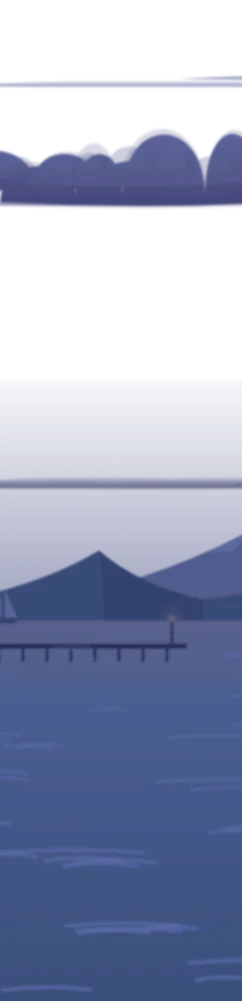
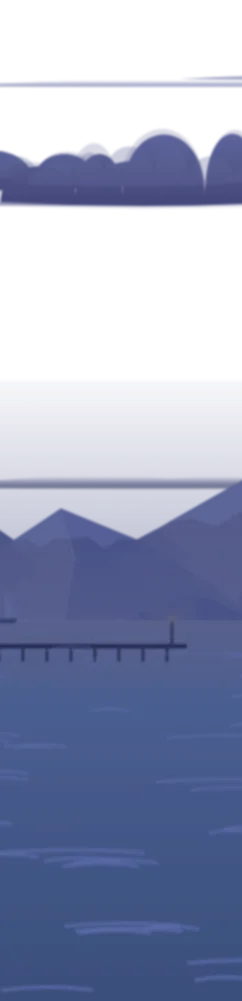
Richer dusk beach distance
Claude-Session: https://claude.ai/code/session_01EHtmNVvLo6L45VFzzqfGpi

Changed region(s): [[0.0, 0.4645, 1.0, 0.6194], [0.9545, 0.5884, 1.0, 0.6194]]

diff --git a/assets/js/nature.js b/assets/js/nature.js
@@ -1513,6 +1513,120 @@ function sailboat(x, y, h, c = '#7a7488') {
   return `<path d="M${n1(x - h * .5)} ${n1(y)}L${n1(x + h * .5)} ${n1(y)}L${n1(x + h * .4)} ${n1(y + h * .18)}L${n1(x - h * .4)} ${n1(y + h * .18)}Z" fill="${c}"/><path d="M${n1(x + h * .05)} ${n1(y - .1)}L${n1(x + h * .05)} ${n1(y - h)}L${n1(x + h * .45)} ${n1(y - .1)}Z" fill="#f3e6d6" opacity=".9"/><path d="M${n1(x - h * .05)} ${n1(y - .1)}L${n1(x - h * .05)} ${n1(y - h * .85)}L${n1(x - h * .38)} ${n1(y - .1)}Z" fill="#e6d2bd" opacity=".9"/>`;
 }
 
+// ---------- 夕凪の浜の遠景（作品の山の描き方：光の面と影の面を平らな色で塗り分け、麓は木々の粒で埋める） ----------
+// 1 つの峰：稜線で左右の面に分け、太陽の側の面を明るく。面の中に小さな面を重ねて岩の起伏を出す。上に雪、麓に木の粒
+function facetPeak(x, base, w, h, g, sunX, c) {
+  const a = .38 + g() * .24, L = [x - w * a, base], Rr = [x + w * (1 - a), base], P = [x + w * (g() - .5) * .08, base - h];
+  const kink = (A, B, t, o) => [A[0] + (B[0] - A[0]) * t + o, A[1] + (B[1] - A[1]) * t - h * (.02 + g() * .06)];
+  const l1 = kink(P, L, .34 + g() * .1, -w * .02), l2 = kink(P, L, .68 + g() * .1, -w * .03), r1 = kink(P, Rr, .3 + g() * .1, w * .02), r2 = kink(P, Rr, .66 + g() * .1, w * .03);
+  const S = [x + w * (g() * .3 - .08), base], M = [P[0] + (S[0] - P[0]) * .45 + w * .04, P[1] + (S[1] - P[1]) * .45];
+  const litLeft = sunX < x, [cl, cr] = litLeft ? [c.lit, c.shade] : [c.shade, c.lit];
+  const pt = (q) => `${n1(q[0])} ${n1(q[1])}`, poly = (pts, f, o = 1) => `<path d="M${pts.map(pt).join('L')}Z" fill="${f}"${o < 1 ? ` opacity="${o}"` : ''}/>`;
+  track(L[0], P[1]); track(Rr[0], base);
+  let s = poly([P, l1, l2, L, S, M], cl) + poly([P, M, S, Rr, r2, r1], cr);
+  // 面の中の小さな面（明るい面には少し暗い面、暗い面には少し明るい面）
+  s += poly([l1, [l1[0] + w * .1, l1[1] + h * .18], [l2[0] + w * .14, l2[1] + h * .1], l2], mixC(cl, cr, .28));
+  s += poly([r1, [r1[0] - w * .08, r1[1] + h * .2], [r2[0] - w * .12, r2[1] + h * .12], r2], mixC(cr, cl, .22));
+  s += poly([M, [M[0] + w * .06, M[1] + h * .2], S], mixC(cr, cl, .12));
+  if (c.snowLit && h > c.snowMin) {
+    // 雪：頂から肩までを覆い、下の縁はぎざぎざ。稜線で光と影に分ける
+    const t = .3 + g() * .12, sl = [P[0] + (l1[0] - P[0]) * (t / .34) * .9, P[1] + (l1[1] - P[1]) * (t / .34) * .9], sr = [P[0] + (r1[0] - P[0]) * (t / .3) * .9, P[1] + (r1[1] - P[1]) * (t / .3) * .9];
+    const sm = [P[0] + (M[0] - P[0]) * .62, P[1] + (M[1] - P[1]) * .62];
+    const jag = (A, B, n) => Array.from({ length: n }, (_, i) => { const u = (i + 1) / (n + 1); return [A[0] + (B[0] - A[0]) * u, A[1] + (B[1] - A[1]) * u + (i % 2 ? h * (.04 + g() * .05) : -h * g() * .03)]; });
+    const [sL, sR] = litLeft ? [c.snowLit, c.snowShade] : [c.snowShade, c.snowLit];
+    s += poly([P, sl, ...jag(sl, sm, 3), sm], sL) + poly([P, sm, ...jag(sm, sr, 3), sr], sR);
+  }
+  // 麓の木々：面の色より少し暗い／明るい小さな粒（遠くなので輪郭は描かない）
+  if (c.trees) {
+    const n = Math.round(w * h * .06);
+    for (let i = 0; i < n; i++) {
+      const u = g(), yy = base - h * (.02 + Math.pow(g(), 1.6) * .34), half = (base - yy) / h, xl = x - w * a * (1 - half * .9), xr = x + w * (1 - a) * (1 - half * .9), xx = xl + (xr - xl) * u, r = w * (.012 + g() * .014);
+      s += `<ellipse cx="${n1(xx)}" cy="${n1(yy)}" rx="${n2(r)}" ry="${n2(r * 1.25)}" fill="${c.trees[Math.floor(g() * c.trees.length)]}" opacity="${n2(.2 + g() * .25)}"/>`;
+    }
+  }
+  return s;
+}
+function facetRange(x0, x1, base, hMin, hMax, wMin, wMax, g, sunX, c) {
+  const peaks = [];
+  for (let x = x0 + g() * wMin * .5; x < x1; x += wMin * (.4 + g() * .55)) { const k = Math.pow(g(), 1.8); peaks.push([x, wMin + (wMax - wMin) * (.3 + .7 * k) * (.8 + g() * .4), hMin + (hMax - hMin) * k]); }
+  // 低い峰を手前に（高い峰の麓に低い峰が重なる）
+  return peaks.sort((p, q) => q[2] - p[2]).map(([x, w, h]) => facetPeak(x, base, w, h, g, sunX, c)).join('');
+}
+// かすむ島：低く丸い背に、光と影の 2 面
+function hazeIsland(x, base, w, h, g, sunX, c) {
+  const p = [[x - w / 2, base]];
+  for (let i = 1; i < 6; i++) { const u = i / 6; p.push([x - w / 2 + w * u, base - h * Math.sin(Math.PI * Math.pow(u, .9)) * (.75 + g() * .35)]); }
+  p.push([x + w / 2, base]);
+  const top = p.reduce((m, q) => q[1] < m[1] ? q : m), d = `M${p.map((q) => `${n1(q[0])} ${n1(q[1])}`).join('L')}Z`;
+  const sh = sunX < x ? `M${n1(top[0])} ${n1(top[1])}${p.filter((q) => q[0] > top[0]).map((q) => `L${n1(q[0])} ${n1(q[1])}`).join('')}L${n1(top[0] + w * .06)} ${n1(base)}Z` : `M${n1(top[0])} ${n1(top[1])}${p.filter((q) => q[0] < top[0]).reverse().map((q) => `L${n1(q[0])} ${n1(q[1])}`).join('')}L${n1(top[0] - w * .06)} ${n1(base)}Z`;
+  track(x - w / 2, base - h); track(x + w / 2, base);
+  let s = `<path d="${d}" fill="${c.lit}"/><path d="${sh}" fill="${c.shade}"/>`;
+  for (let i = 0; i < w * h * .12; i++) { const xx = x - w * .42 + g() * w * .84, yy = base - g() * h * .55; s += `<circle cx="${n1(xx)}" cy="${n1(yy)}" r="${n2(.18 + g() * .22)}" fill="${c.tree}" opacity="${n2(.35 + g() * .3)}"/>`; }
+  return s;
+}
+// 遠くのヤシ：細い幹と、垂れた葉を平らな形で
+function farPalm(x, y, h, lean, c, g) {
+  const tx = x + lean * h * .35, ty = y - h;
+  let s = `<path d="M${n1(x - h * .035)} ${n1(y)}Q${n1(x + lean * h * .05)} ${n1(y - h * .55)} ${n1(tx - h * .02)} ${n1(ty)}L${n1(tx + h * .02)} ${n1(ty)}Q${n1(x + lean * h * .05 + h * .05)} ${n1(y - h * .55)} ${n1(x + h * .035)} ${n1(y)}Z" fill="${c}"/>`;
+  for (let i = 0; i < 7; i++) {
+    const a = -170 + i * 28 + (g() - .5) * 14, L = h * (.38 + g() * .14), ex = tx + Math.cos(a * D) * L, ey = ty + Math.sin(a * D) * L * .55 + L * .32, mx = tx + Math.cos(a * D) * L * .5, my = ty + Math.sin(a * D) * L * .4 - L * .06, wv = h * .05;
+    s += `<path d="M${n1(tx)} ${n1(ty)}Q${n1(mx)} ${n1(my - wv)} ${n1(ex)} ${n1(ey)}Q${n1(mx)} ${n1(my + wv)} ${n1(tx)} ${n1(ty + h * .02)}Z" fill="${c}"/>`;
+  }
+  track(tx - h * .5, ty - h * .1); track(tx + h * .5, y);
+  return s;
+}
+// 岬：海に突き出た丘。先は低い岩の崖で海へ落ち、なだらかに登って丸い頂、奥へまた下って霞に消える。
+// 上は木々のこんもりした丸みで縁どり、尾根にヤシ。水面にうっすら映る
+function headland(tipX, base, len, hgt, dir, g, sunX, c) {
+  const xAt = (u) => tipX + dir * len * u, sm = (e0, e1, v) => { const t = Math.max(0, Math.min(1, (v - e0) / (e1 - e0))); return t * t * (3 - 2 * t); };
+  const prof = (u) => .16 + .84 * sm(0, .42, u) - .62 * sm(.55, 1, u) + .04 * Math.sin(u * 23 + 1.7);
+  const N = 28, crest = Array.from({ length: N + 1 }, (_, i) => { const u = .03 + i / N * .97; return [xAt(u), base - hgt * prof(u)]; });
+  const foot = [[xAt(1), base + .3], [xAt(0), base + .3], [xAt(0), base - hgt * .08], [xAt(.015), base - hgt * .15]];
+  const P = (q) => `${n1(q[0])} ${n1(q[1])}`, d = `M${[...foot, ...crest].map(P).join('L')}Z`;
+  track(Math.min(xAt(0), xAt(1)), base - hgt * 1.1); track(Math.max(xAt(0), xAt(1)), base + 2.5);
+  const topAt = (xx) => { for (let i = 1; i < crest.length; i++) { const [ax, ay] = crest[i - 1], [bx, by] = crest[i]; if ((xx - ax) * (xx - bx) <= 0) return ay + (by - ay) * ((xx - ax) / ((bx - ax) || 1)); } return base; };
+  const [gid0, gdef] = lgrad([[0, c.lit], [.45, c.body], [1, c.low]]);
+  let s = `<defs>${gdef}</defs>`;
+  // 水面の映り込み（上下逆さの淡い影）
+  s += `<path d="M${P([xAt(0), base + .3])}${crest.map((q) => `L${n1(q[0])} ${n1(base + .3 + (base - q[1]) * .2)}`).join('')}L${P([xAt(1), base + .3])}Z" fill="${c.refl}" opacity=".3"/>`;
+  // 尾根のこんもりした木々（輪郭を丸く盛り上げる）
+  let crown = '';
+  for (let u = .05; u < .97; u += .018 + g() * .02) { const xx = xAt(u), yy = topAt(xx), r = hgt * (.045 + g() * .04) * (1.1 - u * .5); crown += `<circle cx="${n1(xx)}" cy="${n1(yy + r * .45)}" r="${n2(r)}"/>`; }
+  s += `<g fill="url(#${gid0})">${crown}<path d="${d}"/></g>`;
+  // 影の側（太陽と反対の斜面）を少し暗く：頂から先への斜面、または奥への斜面
+  const peakU = .42, sunOnTip = (sunX < tipX) === (dir > 0);
+  const shadeSeg = sunOnTip ? crest.filter((q) => (q[0] - xAt(peakU)) * dir > 0) : crest.filter((q) => (q[0] - xAt(peakU)) * dir <= 0);
+  // 影の面の内側の縁は、頂から麓へ斜めに下ろす（縦の継ぎ目に見えないように）
+  if (shadeSeg.length > 1) { const pk = sunOnTip ? shadeSeg[0] : shadeSeg[shadeSeg.length - 1], toward = sunOnTip ? -dir : dir, foot = [pk[0] + toward * len * .1, base + .3], far0 = sunOnTip ? shadeSeg[shadeSeg.length - 1] : shadeSeg[0];
+    s += `<path d="M${shadeSeg.map(P).join('L')}L${P(sunOnTip ? [far0[0], base + .3] : foot)}L${P(sunOnTip ? foot : [far0[0], base + .3])}Z" fill="${c.shade}" opacity=".4"/>`; }
+  // 木々の粒：明るい粒は上、暗い粒は下
+  for (let i = 0; i < len * hgt * .22; i++) {
+    const u = .04 + g() * .94, xx = xAt(u), ty = topAt(xx), depth = g(), yy = ty + (base - ty) * (.12 + depth * .8), r = (.22 + g() * .3) * (1.1 - depth * .4);
+    s += `<circle cx="${n1(xx)}" cy="${n1(yy)}" r="${n2(r)}" fill="${depth < .35 ? c.trees[2] : c.trees[depth < .7 ? 1 : 0]}" opacity="${n2(.35 + g() * .3)}"/>`;
+  }
+  // 先の岩の崖（光の面と影の面）と、波が当たる白っぽい岩の裾
+  const cliffW = len * .07;
+  s += `<path d="M${P([xAt(0), base + .3])}L${P([xAt(0), base - hgt * .08])}L${P([xAt(.015), base - hgt * .15])}L${P([xAt(.04), base - hgt * .28])}L${P([xAt(.07), base - hgt * .2])}L${P([xAt(0) + dir * cliffW * 1.4, base + .3])}Z" fill="${sunOnTip ? c.rockLit : c.rock}"/>`;
+  s += `<path d="M${P([xAt(.04), base - hgt * .28])}L${P([xAt(.07), base - hgt * .2])}L${P([xAt(0) + dir * cliffW * 1.4, base + .3])}L${P([xAt(.035), base + .3])}Z" fill="${c.rock}"/>`;
+  // 尾根のヤシ（頂の手前、先の側に寄せて）
+  for (let i = 0; i < 4; i++) { const u = .12 + i * .07 + g() * .04, xx = xAt(u); s += farPalm(xx, topAt(xx) + .4, hgt * (.24 + g() * .12), dir * -(.2 + g() * .5), c.palm, g); }
+  return s;
+}
+// 防波堤と、先の小さな灯台（灯りは museum.js がゆっくり明滅させる）
+function breakwater(x0, x1, base, g, c) {
+  const a = Math.min(x0, x1), b = Math.max(x0, x1), lx = x1;
+  let s = `<path d="M${n1(a)} ${n1(base - .55)}H${n1(b)}V${n1(base + .35)}H${n1(a)}Z" fill="${c.face}"/><path d="M${n1(a)} ${n1(base - .55)}H${n1(b)}V${n1(base - .25)}H${n1(a)}Z" fill="${c.top}"/>`;
+  for (let x = a + .8 + g(); x < b - 1; x += 1.4 + g() * 1.2) s += `<path d="M${n1(x)} ${n1(base - .25)}h${n2(.18)}V${n1(base + .35)}h${n2(-.18)}Z" fill="${c.gap}"/>`;
+  s += `<path d="M${n1(a)} ${n1(base + .45)}H${n1(b)}V${n1(base + 1.1)}H${n1(a)}Z" fill="${c.face}" opacity=".22"/>`;
+  // 灯台：白い塔（影の側はうす紫）、赤い帯と頭、灯室は暗く
+  const H = 4.2, bw = .62, tw = .42, y0 = base - .55;
+  s += `<path d="M${n1(lx - bw)} ${n1(y0)}L${n1(lx - tw)} ${n1(y0 - H)}H${n1(lx + tw)}L${n1(lx + bw)} ${n1(y0)}Z" fill="${c.tower}"/><path d="M${n1(lx)} ${n1(y0)}V${n1(y0 - H)}H${n1(lx + tw)}L${n1(lx + bw)} ${n1(y0)}Z" fill="${c.towerShade}"/>`;
+  s += `<path d="M${n1(lx - bw * .9)} ${n1(y0 - H * .38)}L${n1(lx - bw * .82)} ${n1(y0 - H * .55)}H${n1(lx + bw * .82)}L${n1(lx + bw * .9)} ${n1(y0 - H * .38)}Z" fill="${c.red}"/>`;
+  s += `<path d="M${n1(lx - tw - .18)} ${n1(y0 - H)}h${n2(tw * 2 + .36)}v.22h${n2(-(tw * 2 + .36))}Z" fill="${c.red}"/><path d="M${n1(lx - tw * .75)} ${n1(y0 - H - 1)}h${n2(tw * 1.5)}v1h${n2(-tw * 1.5)}Z" fill="${c.lamp}"/><path d="M${n1(lx - tw)} ${n1(y0 - H - 1)}L${n1(lx)} ${n1(y0 - H - 1.6)}L${n1(lx + tw)} ${n1(y0 - H - 1)}Z" fill="${c.red}"/>`;
+  track(a, y0 - H - 1.6); track(b, base + 1.1);
+  return { svg: s, light: [lx, y0 - H - .5] };
+}
+
 // ---------- 海辺の部品（夕凪の浜・夜の海辺の街） ----------
 // ヤシの葉 1 枚：垂れ下がる葉軸に、小葉が重力で下向きに垂れる
 function frond(x, y, len, ang, c, hi, { droop = 1, n = 18 } = {}) {
@@ -1621,13 +1735,28 @@ export function sceneCove(W, stops) {
   far += streakCloud(-10, fw + 10, hz - 13, 1.4, '#e7b6ae', '#ffcf8f');
   far += setSun(sx, hz - 6, 4.8);
   // 遠くを渡る鳥
-  far += mountains(-10, fw + 10, hz, 40, 55, '#b3c6cc', '#eef3f2', { wmin: 30, wmax: 70 });
-  far += haze(-10, fw + 10, 38, hz, '#f6dcc6', .05, .6);
-  far += mountains(-10, fw + 10, hz + .5, 53, 59, '#8eaeb5', null, { wmin: 22, wmax: 48 });
+  // 遠景は 3 段：奥の雪山、真ん中のかすむ島々、手前の緑の岬（作品の山の描き方で、光の面と影の面を塗り分ける）。
+  // 前の山の乱数の呼び出しはそのまま残す（浜の小物の位置を変えないため）。絵は位置から決まる別の乱数で
+  mountains(-10, fw + 10, hz, 40, 55, '#b3c6cc', '#eef3f2', { wmin: 30, wmax: 70 });
+  const gM = hrng(fw + 3.1), big = W < 80 ? .7 : 1;
+  far += facetRange(-10, fw + 10, hz, 9 * big + 3, 27 * big + 3, 30 * big, 70 * big, gM, sx, { lit: '#dcc3c3', shade: '#a6a8c4', snowLit: '#f7e6dd', snowShade: '#d5d2e4', snowMin: 12 * big });
+  far += haze(-10, fw + 10, 38, hz, '#f6dcc6', .05, .5);
+  mountains(-10, fw + 10, hz + .5, 53, 59, '#8eaeb5', null, { wmin: 22, wmax: 48 });
+  for (let x = -6 + gM() * 10; x < fw + 10; x += (18 + gM() * 26) * big) far += hazeIsland(x, hz + .2, (10 + gM() * 16) * big, (2.4 + gM() * 3.2) * big, gM, sx, { lit: '#c9b9c3', shade: '#aeaec4', tree: '#a3a3bb' });
+  far += haze(-10, fw + 10, hz - 8, hz + .3, '#f6dcc6', 0, .35);
   const [sg, sd] = lgrad([[0, '#f4d9bd'], [.18, '#bfd9d3'], [1, '#86b3b3']]);
   far += `<defs>${sd}</defs><rect x="-5" y="${hz}" width="${n1(fw + 10)}" height="${n1(106 - hz)}" fill="url(#${sg})"/>`;
   far += glitter(sx, hz + .5, 100, '#fff6d8', { spread: .35, n: 170, a: 1 });
   // 水平線の帆船と、遠くの桟橋（先に灯りがともる）
+  // 手前の緑の岬：作品と作品のあいだ（立ち止まると画面の真ん中）に岬の先が来るように。どれも先を夕日の側（左）へ向け、
+  // 次の岬に重ならない長さに。最初の岬の先に防波堤と小さな灯台
+  let harbor = null;
+  for (let s = 1.5, k = 0; s < stops - 1; s += 2, k++) {
+    const dir = 1, tip = at(W, FACTORS.far)(s, W * .5), bwl = W < 80 ? 4 : 7, len = Math.min(W < 80 ? 26 : 56, W * FACTORS.far * 2.1), hgt = W < 80 ? 6.5 : 10;
+    const tipX = k === 0 ? tip + dir * bwl : tip + dir * 2;
+    far += headland(tipX, hz + .1, len, hgt, dir, gM, sx, { body: '#86a092', lit: '#a9b095', low: '#6f8d88', shade: '#5f7c7d', rock: '#8a8290', rockLit: '#b9a39e', refl: '#5f8583', trees: ['#6f8c84', '#8aa18f', '#a7b096'], palm: '#5a7169' });
+    if (k === 0) { const bw = breakwater(tipX, tip, hz + .1, gM, { top: '#c9b8b0', face: '#948a96', gap: '#7d7482', tower: '#efe4da', towerShade: '#d2c7cf', red: '#bd6a5c', lamp: '#6b6170' }); far += bw.svg; harbor = bw.light; }
+  }
   for (let k = 0; k < 3; k++) far += sailboat(R(fw * .1, fw * .9), hz - .2, R(2, 3.2), pick(['#8a97a8', '#7a7488']));
   far += pierFar(fw * .78, hz + 3.5, Math.min(26, fw * .18), '#6f6a7a');
   far += waveLines(-5, fw + 5, hz + 1, 100, '#ffffff', Math.round(fw * 1.4));
@@ -1700,7 +1829,7 @@ export function sceneCove(W, stops) {
   move += tileGround(W, stops, ground);
   return {
     sky: 'linear-gradient(#aebbd6 0%, #e3b8b3 28%, #f3c69c 46%, #f8dcb0 58%, #f6e2c4 62%, #bfd9d3 66%, #86b3b3 100%)',
-    far: [fw, far], mid: [mw, mid], move: [vw, move], frame, fx: 'cove', glowDefault: [255, 214, 170], foam: 79,
+    far: [fw, far], mid: [mw, mid], move: [vw, move], frame, fx: 'cove', glowDefault: [255, 214, 170], foam: 79, harbor, plane: true,
     curtain: ['#1c3a3a', '#2a5550', '#3f7f73', '#5aa77a', '#7cc0a0'],
   };
 }

diff --git a/assets/css/museum.css b/assets/css/museum.css
@@ -941,6 +941,20 @@ body.choosing .loader-choose { opacity: 1; transform: none; pointer-events: auto
 /* 小屋：窓の外のオーロラがゆらぐ（左上） */
 .scene-attic .l3 { background: linear-gradient(100deg, transparent 0%, rgba(120, 220, 170, .14) 12%, transparent 22%, transparent 30%, rgba(140, 200, 220, .1) 38%, transparent 46%); -webkit-mask-image: linear-gradient(#000 0%, #000 25%, transparent 55%); mask-image: linear-gradient(#000 0%, #000 25%, transparent 55%); animation: shafts 12s ease-in-out infinite alternate; }
 /* 灯台の光が回る */
+/* 夕凪の浜：防波堤の先の小さな灯台の灯り（6vh の四角の真ん中が灯室）。ゆっくり点いて消える */
+.harborlight { width: 6vh; height: 6vh; }
+.harborlight b { position: absolute; inset: 0; border-radius: 50%; background: radial-gradient(circle, rgba(255, 232, 190, .95) 0 5%, rgba(255, 200, 140, .45) 12%, rgba(255, 190, 130, .12) 32%, transparent 60%); animation: harbor 4.8s ease-in-out infinite; will-change: opacity; }
+.harborlight s { position: absolute; left: 44%; width: 12%; height: 42%; background: linear-gradient(rgba(255, 214, 160, .5), transparent); border-radius: 50%; animation: harbor 4.8s ease-in-out infinite; will-change: opacity; }
+@keyframes harbor { 0%, 55%, 100% { opacity: .12; } 68%, 82% { opacity: 1; } }
+/* 夕凪の浜：遠くを横切る飛行機と飛行機雲。1 回およそ 46 秒で横切って、しばらく間をおく */
+.airplane { position: absolute; left: 0; top: 11vh; width: 4.6vh; will-change: transform; animation: airplane 80s linear infinite; animation-delay: -72s; }
+.airplane svg { display: block; width: 100%; height: auto; position: relative; }
+.airplane .trail { position: absolute; left: 92%; top: 26%; width: 42vh; height: .16vh; border-radius: .1vh; background: linear-gradient(90deg, rgba(250, 232, 226, .55), rgba(250, 232, 226, .22) 35%, transparent); }
+.airplane .trail.t2 { top: 44%; opacity: .7; }
+.airplane .nav { animation: navblink 1.4s steps(1) infinite; }
+.airplane .strobe { animation: navblink 1.4s steps(1) infinite; animation-delay: -.7s; }
+@keyframes navblink { 0% { opacity: 1; } 30% { opacity: .15; } }
+@keyframes airplane { 0% { transform: translate3d(calc(100vw + 2vh), 0, 0); } 58% { transform: translate3d(-48vh, -2.2vh, 0); } 100% { transform: translate3d(-48vh, -2.2vh, 0); } }
 .lighthouse { will-change: transform; animation: spin 9s linear infinite; opacity: .42; } /* 灯台の光の帯は淡く（夜の庭の静けさを邪魔しないように） */
 /* 夕凪の波打ちぎわ：泡の線が寄せて引く */
 /* 波打ちぎわ：寄せては返す波（奥から砂を上り、少しとどまって、薄くなりながら引く）。2 枚目は周期をずらす */
@@ -960,7 +974,7 @@ body.choosing .loader-choose { opacity: 1; transform: none; pointer-events: auto
 .flyer.koijump { width: 5vh; opacity: .6; animation-timing-function: ease-in-out; }
 .flyer.koijump svg { animation: koiarc 1.6s ease-in-out forwards; }
 @keyframes koiarc { 0% { transform: rotate(60deg) translateY(2vh); } 50% { transform: rotate(90deg) translateY(-8vh); } 100% { transform: rotate(120deg) translateY(2vh); } }
-@media (prefers-reduced-motion: reduce) { .lighthouse, .ferris-wheel, .ferris-wheel .gondola, .ferris-refl i, .swash, .wetshine, .steam i, .flyer.koijump svg { animation: none !important; } }
+@media (prefers-reduced-motion: reduce) { .harborlight b, .harborlight s, .lighthouse, .ferris-wheel, .ferris-wheel .gondola, .ferris-refl i, .swash, .wetshine, .steam i, .flyer.koijump svg { animation: none !important; } }
 
 /* 長押し：作品だけが照らされる */
 .room.spot .hush { display: block; opacity: 1 !important; transition: opacity .5s; }

diff --git a/assets/js/museum.js b/assets/js/museum.js
@@ -668,6 +668,10 @@ function clockFaceSVG() {
   for (let i = 0; i < 12; i++) { const a = i / 12 * Math.PI * 2, r1 = i % 3 ? .74 : .68; t += `<path d="M${(Math.sin(a) * r1).toFixed(3)} ${(-Math.cos(a) * r1).toFixed(3)}L${(Math.sin(a) * .8).toFixed(3)} ${(-Math.cos(a) * .8).toFixed(3)}" stroke="#3a2718" stroke-width="${i % 3 ? .03 : .06}"/>`; }
   return `<svg class="face" viewBox="-1.12 -1.12 2.24 2.24" aria-hidden="true"><circle cx=".06" cy=".08" r="1.05" fill="#000" opacity=".25"/><circle r="1.05" fill="#6a4a30"/><circle r=".86" fill="#e8dcc0"/>${t}</svg>`;
 }
+// 遠くの旅客機（横向き、左へ飛ぶ）：上面は夕日を受けて明るく、下は影。線は描かない
+function planeSVG() {
+  return `<svg viewBox="0 0 40 12"><path d="M2 6.6Q2.4 5.3 4.6 5.1L31 4.7L35.6 1.2H37.4L36 5L37.6 5.4Q38.2 6.2 37 6.6L33 7.2H5Q2.4 7.2 2 6.6Z" fill="#8f8aa3"/><path d="M4.6 5.1L31 4.7L35.6 1.2H37.4L36 5L31 5.6H5.2Q3.4 5.7 4.6 5.1Z" fill="#c9b7bc"/><path d="M14 6.4L22.5 6.3L27 10.6H24.8Z" fill="#7b7690"/><path d="M15 5.4L21 5.3L24.2 3.4H23Z" fill="#a49db3"/><path d="M33 5.6L38.4 5.2L38.6 6H33.4Z" fill="#7b7690"/><circle class="nav" cx="26.6" cy="10.4" r=".55" fill="#e76a5a"/><circle class="strobe" cx="37.2" cy="1.5" r=".5" fill="#ffe6c4"/></svg>`;
+}
 function tickClocks() {
   const now = new Date(), m = now.getMinutes() + now.getSeconds() / 60, h = (now.getHours() % 12) + m / 60;
   document.querySelectorAll('.wclock').forEach((c) => { c.querySelector('.mh').style.transform = `rotate(${(m * 6).toFixed(1)}deg)`; c.querySelector('.hh').style.transform = `rotate(${(h * 30).toFixed(1)}deg)`; });
@@ -684,6 +688,10 @@ function buildLiving(r) {
   }
   if (D.puddles) P.insertAdjacentHTML('beforeend', D.puddles.map(([x, y, w], i) => `<i class="living puddle-shine" style="left:${((x - w * .9) * U).toFixed(1)}px;top:${((y - w * .13) * U).toFixed(1)}px;width:${(w * 1.8).toFixed(2)}vh;height:${(w * .26).toFixed(2)}vh;animation-delay:${-(i * .7)}s"></i>`).join(''));
   if (D.lighthouse) { const { x, y } = D.lighthouse; S.insertAdjacentHTML('beforeend', `<div class="living lighthouse" style="left:${((x - 40) * U).toFixed(1)}px;top:${((y - 40) * U).toFixed(1)}px;width:80vh">${beamSVG()}</div>`); }
+  // 夕凪の浜：防波堤の先の小さな灯台が、ゆっくり明滅する（光の輪と、水面に落ちる細い光）
+  if (D.harbor) { const [x, y] = D.harbor; S.insertAdjacentHTML('beforeend', `<i class="living harborlight" style="left:${((x - 3) * U).toFixed(1)}px;top:${((y - 3) * U).toFixed(1)}px"><b></b><s style="top:${((63 - y + 3) / 6 * 100).toFixed(0)}%"></s></i>`); }
+  // 夕凪の浜：遠くの空を、飛行機が飛行機雲を引いてゆっくり横切る（空は動かない層なので、いつ見ても画面の中を通る）
+  if (D.plane && !REDUCED) { const sky = $('.sky', r.el); sky.querySelector('.airplane')?.remove(); sky.insertAdjacentHTML('beforeend', `<div class="airplane" aria-hidden="true"><i class="trail"></i><i class="trail t2"></i>${gradeColors(planeSVG(), gradeOf(r.room.scene))}</div>`); }
   if (D.foam) {
     // 波打ちぎわ：寄せては返す 2 枚の波（奥の水から砂を上って、薄く引いていく）と、引いたあとに光る濡れた砂。
     // 波の絵は 1 枚の横に繰り返す絵（48vh 幅）。動きは要素ごとの transform と opacity だけ
